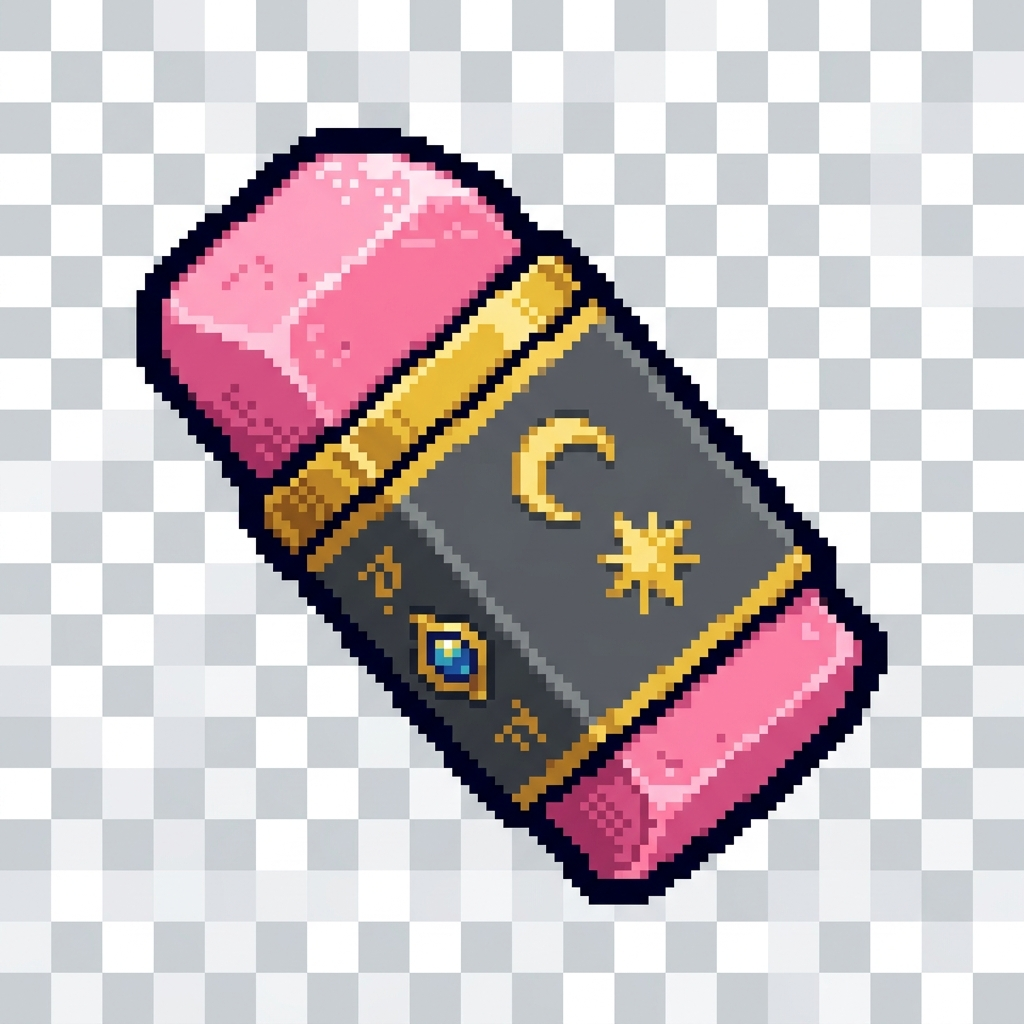
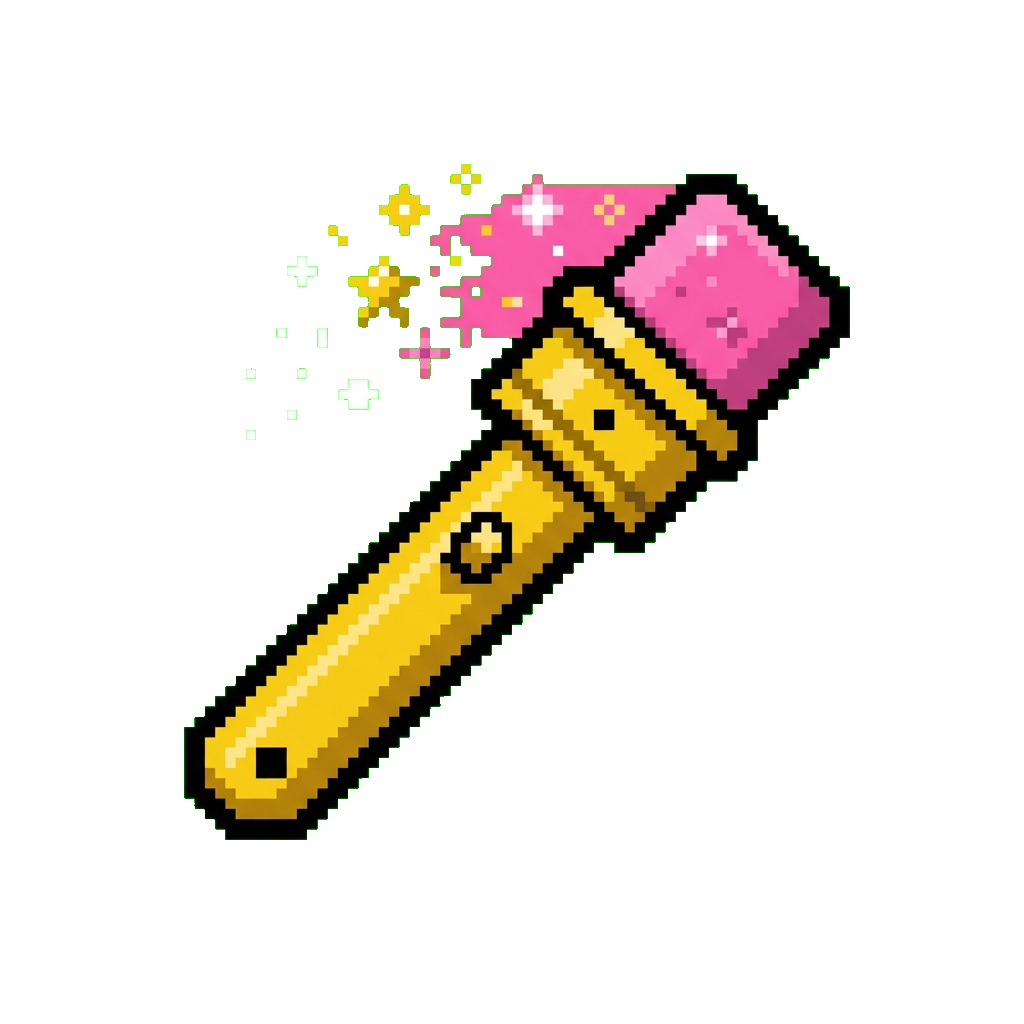
fireball

diff --git a/src/view/GameView.java b/src/view/GameView.java
@@ -827,23 +827,44 @@ public class GameView extends JPanel {
                             g2d.fillOval(px, py, size, size);
                         }
                     } else if ("FIREBALL".equalsIgnoreCase(proj.getType())) {
-                        // Blazing Fireball (Orange-Red glowing orb)
-                        int px = (int) (offsetX + (proj.getExactX() * tileSize) + tileSize / 4);
-                        int py = (int) (offsetY + (proj.getExactY() * tileSize) + tileSize / 4);
-                        int size = tileSize / 2;
-                        g2d.setColor(new java.awt.Color(255, 69, 0, 220)); // Deep orange-red
-                        g2d.fillOval(px, py, size, size);
-                        g2d.setColor(new java.awt.Color(255, 215, 0, 180)); // Gold aura
-                        g2d.drawOval(px - 2, py - 2, size + 4, size + 4);
+                        BufferedImage fireballImg = assetManager.getProjectileFireball();
+                        if (fireballImg != null) {
+                            int px = (int) Math.round(offsetX + (proj.getExactX() * tileSize));
+                            int py = (int) Math.round(offsetY + (proj.getExactY() * tileSize));
+                            g2d.drawImage(fireballImg, px, py, tileSize, tileSize, null);
+                        } else {
+                            // Fallback if image fails
+                            int px = (int) (offsetX + (proj.getExactX() * tileSize) + tileSize / 4);
+                            int py = (int) (offsetY + (proj.getExactY() * tileSize) + tileSize / 4);
+                            int size = tileSize / 2;
+                            g2d.setColor(new java.awt.Color(255, 69, 0, 220)); // Deep orange-red
+                            g2d.fillOval(px, py, size, size);
+                            g2d.setColor(new java.awt.Color(255, 215, 0, 180)); // Gold aura
+                            g2d.drawOval(px - 2, py - 2, size + 4, size + 4);
+                        }
+                    } else if ("SORCERER_FIREBALL".equalsIgnoreCase(proj.getType())) {
+                        BufferedImage sorcererImg = assetManager.getProjectileSorcererFireball();
+                        if (sorcererImg != null) {
+                            int px = (int) Math.round(offsetX + (proj.getExactX() * tileSize));
+                            int py = (int) Math.round(offsetY + (proj.getExactY() * tileSize));
+                            g2d.drawImage(sorcererImg, px, py, tileSize, tileSize, null);
+                        } else {
+                            // Fallback (Purple Mage Spell)
+                            int px = (int) (offsetX + (proj.getExactX() * tileSize) + tileSize / 4);
+                            int py = (int) (offsetY + (proj.getExactY() * tileSize) + tileSize / 4);
+                            int size = tileSize / 2;
+                            g2d.setColor(new java.awt.Color(186, 85, 211, 220)); // Magical Orchid
+                            g2d.fillOval(px, py, size, size);
+                            g2d.setColor(new java.awt.Color(255, 200, 255, 180)); // Light aura
+                            g2d.drawOval(px - 2, py - 2, size + 4, size + 4);
+                        }
                     } else {
-                        // Purple Mage Spell
+                        // Other projectiles fallback
                         int px = (int) (offsetX + (proj.getExactX() * tileSize) + tileSize / 4);
                         int py = (int) (offsetY + (proj.getExactY() * tileSize) + tileSize / 4);
                         int size = tileSize / 2;
-                        g2d.setColor(new java.awt.Color(186, 85, 211, 220)); // Magical Orchid
+                        g2d.setColor(new java.awt.Color(255, 69, 0, 220));
                         g2d.fillOval(px, py, size, size);
-                        g2d.setColor(new java.awt.Color(255, 200, 255, 180)); // Light aura
-                        g2d.drawOval(px - 2, py - 2, size + 4, size + 4);
                     }
                     continue;
                 } else if (e instanceof domain.models.entity.ShadowClone) {
@@ -1058,14 +1079,21 @@ public class GameView extends JPanel {
                         g2d.fillOval(px, py, size, size);
                     }
                 } else if ("FIREBALL".equalsIgnoreCase(proj.getType())) {
-                    // Blazing Fireball (Orange-Red glowing orb)
-                    int px = (int) (offsetX + (proj.getExactX() * tileSize) + tileSize / 4);
-                    int py = (int) (offsetY + (proj.getExactY() * tileSize) + tileSize / 4);
-                    int size = tileSize / 2;
-                    g2d.setColor(new java.awt.Color(255, 69, 0, 220)); // Deep orange-red
-                    g2d.fillOval(px, py, size, size);
-                    g2d.setColor(new java.awt.Color(255, 215, 0, 180)); // Gold aura
-                    g2d.drawOval(px - 2, py - 2, size + 4, size + 4);
+                    BufferedImage fireballImg = assetManager.getProjectileFireball();
+                    if (fireballImg != null) {
+                        int px = (int) Math.round(offsetX + (proj.getExactX() * tileSize));
+                        int py = (int) Math.round(offsetY + (proj.getExactY() * tileSize));
+                        g2d.drawImage(fireballImg, px, py, tileSize, tileSize, null);
+                    } else {
+                        // Fallback
+                        int px = (int) (offsetX + (proj.getExactX() * tileSize) + tileSize / 4);
+                        int py = (int) (offsetY + (proj.getExactY() * tileSize) + tileSize / 4);
+                        int size = tileSize / 2;
+                        g2d.setColor(new java.awt.Color(255, 69, 0, 220)); // Deep orange-red
+                        g2d.fillOval(px, py, size, size);
+                        g2d.setColor(new java.awt.Color(255, 215, 0, 180)); // Gold aura
+                        g2d.drawOval(px - 2, py - 2, size + 4, size + 4);
+                    }
                 } else if ("BOSS_FIREBALL".equalsIgnoreCase(proj.getType())) {
                     // Boss Fireball — larger, darker, more menacing
                     int px = (int) (offsetX + (proj.getExactX() * tileSize) + tileSize / 6);
@@ -1077,15 +1105,29 @@ public class GameView extends JPanel {
                     g2d.drawOval(px - 3, py - 3, size + 6, size + 6);
                     g2d.setColor(new java.awt.Color(255, 150, 0, 120)); // Outer glow
                     g2d.drawOval(px - 5, py - 5, size + 10, size + 10);
+                } else if ("SORCERER_FIREBALL".equalsIgnoreCase(proj.getType())) {
+                    BufferedImage sorcererImg = assetManager.getProjectileSorcererFireball();
+                    if (sorcererImg != null) {
+                        int px = (int) Math.round(offsetX + (proj.getExactX() * tileSize));
+                        int py = (int) Math.round(offsetY + (proj.getExactY() * tileSize));
+                        g2d.drawImage(sorcererImg, px, py, tileSize, tileSize, null);
+                    } else {
+                        // Fallback (Purple Mage Spell)
+                        int px = (int) (offsetX + (proj.getExactX() * tileSize) + tileSize / 4);
+                        int py = (int) (offsetY + (proj.getExactY() * tileSize) + tileSize / 4);
+                        int size = tileSize / 2;
+                        g2d.setColor(new java.awt.Color(186, 85, 211, 220)); // Magical Orchid
+                        g2d.fillOval(px, py, size, size);
+                        g2d.setColor(new java.awt.Color(255, 200, 255, 180)); // Light aura
+                        g2d.drawOval(px - 2, py - 2, size + 4, size + 4);
+                    }
                 } else {
-                    // Purple Mage Spell
+                    // Other projectiles fallback
                     int px = (int) (offsetX + (proj.getExactX() * tileSize) + tileSize / 4);
                     int py = (int) (offsetY + (proj.getExactY() * tileSize) + tileSize / 4);
                     int size = tileSize / 2;
-                    g2d.setColor(new java.awt.Color(186, 85, 211, 220)); // Magical Orchid
+                    g2d.setColor(new java.awt.Color(255, 69, 0, 220));
                     g2d.fillOval(px, py, size, size);
-                    g2d.setColor(new java.awt.Color(255, 200, 255, 180)); // Light aura
-                    g2d.drawOval(px - 2, py - 2, size + 4, size + 4);
                 }
             }
         }

diff --git a/src/ui/DesignModeView.java b/src/ui/DesignModeView.java
@@ -298,7 +298,6 @@ public class DesignModeView extends JPanel {
 
     private void buildPalette() {
         // ── 1. OBSTACLES ───────────────────────────────────────────────────────
-        obstaclePalette.add(new PaletteItem("Eraser", "images/BuildMode/eraser_icon.png", false, null));
         // Crates
         obstaclePalette.add(new PaletteItem("Crate", "crate", true, (x, y) -> new Crate("Crate", x, y)));
         obstaclePalette.add(new PaletteItem("Crate Brown", "containers/crate_brown", true,
@@ -336,9 +335,9 @@ public class DesignModeView extends JPanel {
                 (x, y) -> new Column("Column", x, y, "colon/gray_colon_whole")));
         obstaclePalette.add(new PaletteItem("PurpleCol", "colon/purple_colon_whole", true,
                 (x, y) -> new Column("Column", x, y, "colon/purple_colon_whole")));
+        obstaclePalette.add(new PaletteItem("Eraser", "images/BuildMode/eraser_icon.png", false, null));
 
         // ── 2. ITEMS ───────────────────────────────────────────────────────────
-        itemPalette.add(new PaletteItem("Eraser", "images/BuildMode/eraser_icon.png", false, null));
         // Potions
         itemPalette.add(new PaletteItem("HealthPotion", "images/items/potion/red_potion.png", false,
                 (x, y) -> new PotionItem(new HealthPotion("Health Potion", 5), x, y,
@@ -394,6 +393,7 @@ public class DesignModeView extends JPanel {
                 (x, y) -> new PotionItem("Book", x, y, "images/items/readings/book.png")));
         itemPalette.add(new PaletteItem("Totem1", "images/items/readings/totem_1.png", false,
                 (x, y) -> new PotionItem("Totem 1", x, y, "images/items/readings/totem_1.png")));
+        itemPalette.add(new PaletteItem("Eraser", "images/BuildMode/eraser_icon.png", false, null));
 
         // ── 3. WALL ITEM ───────────────────────────────────────────────────────
         // Decorative (WallDecoration)

diff --git a/src/domain/models/entity/Sorcerer.java b/src/domain/models/entity/Sorcerer.java
@@ -151,7 +151,6 @@ public class Sorcerer extends Entity implements Renderable {
         if (dist == 0) return null; // Aynı konumda ise ates etme
 
         // Pürüzsüz vektörel yönelim (Tam isabet)
-        // GameView artık getExactX/Y kullandığı için zigzag yapmadan hedefe dümdüz uçar.
         double speed = 0.5;
         double dx = (diffX / dist) * speed;
         double dy = (diffY / dist) * speed;
